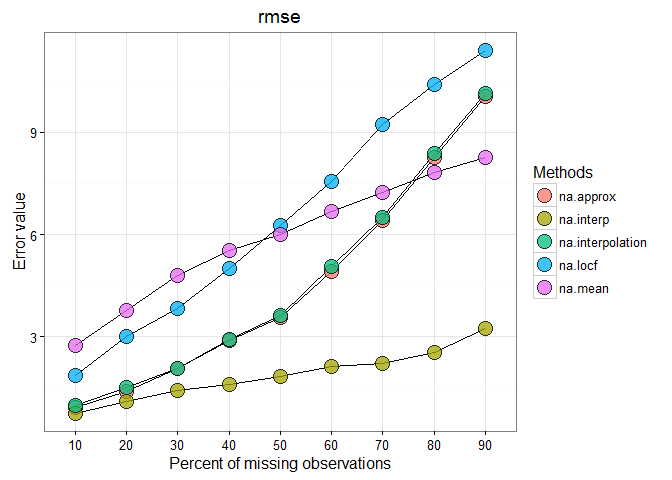
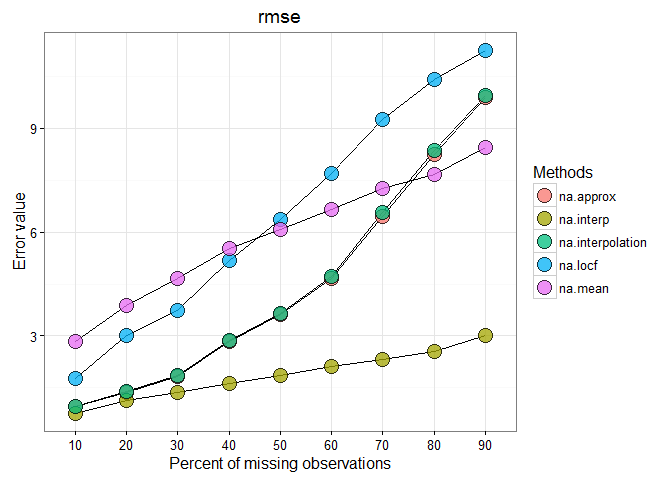
adding CI, running CRAN checks

diff --git a/README.html b/README.html
@@ -125,6 +125,9 @@ $(document).ready(function () {
 <h2>imputeTestbench</h2>
 <div id="neeraj-bokde-neerajdhanrajgmail.com-marcus-w.-beck-beck.marcusepa.gov" class="section level4">
 <h4><em>Neeraj Bokde, <a href="mailto:neerajdhanraj@gmail.com">neerajdhanraj@gmail.com</a>, Marcus W. Beck, <a href="mailto:beck.marcus@epa.gov">beck.marcus@epa.gov</a></em></h4>
+<p><a href="https://travis-ci.org/fawda123/imputeTestbench"><img src="https://travis-ci.org/fawda123/imputeTestbench.svg?branch=master" alt="Travis-CI Build Status" /></a></p>
+<p><a href="https://ci.appveyor.com/project/fawda123/imputeTestbench"><img src="https://ci.appveyor.com/api/projects/status/github/fawda123/imputeTestbench?branch=master&amp;svg=true" alt="AppVeyor Build Status" /></a></p>
+<p><a href="http://cran.rstudio.com/package=imputeTestbench"><img src="http://cranlogs.r-pkg.org/badges/grand-total/imputeTestbench" alt="Downloads from the RStudio CRAN mirror" /></a></p>
 <p>This is the development repository for the imputeTestbench package. This package provides a testbench for comparing imputation methods for missing data in univariate time series.</p>
 <p>The development version of this package can be installed from Github:</p>
 <pre class="r"><code>install.packages(&#39;devtools&#39;)
@@ -146,24 +149,24 @@ a</code></pre>
 ## [1] 10 20 30 40 50 60 70 80 90
 ## 
 ## $na.approx
-## [1]  0.9314818  1.3907689  2.0607283  2.8861244  3.5637052  4.9158789
-## [7]  6.4131929  8.2528277 10.0580649
+## [1] 0.9487195 1.3551689 1.8287319 2.8499620 3.6178854 4.6592562 6.4600441
+## [8] 8.2361118 9.8981246
 ## 
 ## $na.interp
-## [1] 0.756944 1.099818 1.412798 1.586325 1.835997 2.119822 2.214915 2.533648
-## [9] 3.251729
+## [1] 0.7679054 1.1328513 1.3713050 1.6197456 1.8502538 2.1180169 2.3079583
+## [8] 2.5567402 3.0259601
 ## 
 ## $na.interpolation
-## [1]  0.9771439  1.5100036  2.0772976  2.9099799  3.6141572  5.0736151
-## [7]  6.5072629  8.3734161 10.1321833
+## [1] 0.9701737 1.4012817 1.8520263 2.8657296 3.6599247 4.7046867 6.5583047
+## [8] 8.3618126 9.9443988
 ## 
 ## $na.locf
-## [1]  1.865308  3.006465  3.819017  5.002598  6.276696  7.543415  9.230569
-## [8] 10.389976 11.396348
+## [1]  1.768138  3.008227  3.733738  5.168307  6.354235  7.696832  9.243164
+## [8] 10.419655 11.245193
 ## 
 ## $na.mean
-## [1] 2.738661 3.783800 4.784753 5.517070 5.996845 6.664098 7.240930 7.822131
-## [9] 8.265659</code></pre>
+## [1] 2.838550 3.868051 4.646613 5.514563 6.083541 6.664628 7.251263 7.673111
+## [9] 8.443754</code></pre>
 <pre class="r"><code>plot_errors(a, plotType = &#39;line&#39;)</code></pre>
 <p><img src="README_files/figure-html/unnamed-chunk-3-1.png" /><!-- --></p>
 </div>

diff --git a/README.md b/README.md
@@ -3,6 +3,12 @@
 
 #### *Neeraj Bokde, neerajdhanraj@gmail.com, Marcus W. Beck, beck.marcus@epa.gov*
 
+[![Travis-CI Build Status](https://travis-ci.org/fawda123/imputeTestbench.svg?branch=master)](https://travis-ci.org/fawda123/imputeTestbench)
+
+[![AppVeyor Build Status](https://ci.appveyor.com/api/projects/status/github/fawda123/imputeTestbench?branch=master&svg=true)](https://ci.appveyor.com/project/fawda123/imputeTestbench)
+
+[![Downloads from the RStudio CRAN mirror](http://cranlogs.r-pkg.org/badges/grand-total/imputeTestbench)](http://cran.rstudio.com/package=imputeTestbench)
+
 
 
 This is the development repository for the imputeTestbench package.  This package provides a testbench for comparing imputation methods for missing data in univariate time series. 
@@ -42,24 +48,24 @@ a
 ## [1] 10 20 30 40 50 60 70 80 90
 ## 
 ## $na.approx
-## [1]  0.9314818  1.3907689  2.0607283  2.8861244  3.5637052  4.9158789
-## [7]  6.4131929  8.2528277 10.0580649
+## [1] 0.9487195 1.3551689 1.8287319 2.8499620 3.6178854 4.6592562 6.4600441
+## [8] 8.2361118 9.8981246
 ## 
 ## $na.interp
-## [1] 0.756944 1.099818 1.412798 1.586325 1.835997 2.119822 2.214915 2.533648
-## [9] 3.251729
+## [1] 0.7679054 1.1328513 1.3713050 1.6197456 1.8502538 2.1180169 2.3079583
+## [8] 2.5567402 3.0259601
 ## 
 ## $na.interpolation
-## [1]  0.9771439  1.5100036  2.0772976  2.9099799  3.6141572  5.0736151
-## [7]  6.5072629  8.3734161 10.1321833
+## [1] 0.9701737 1.4012817 1.8520263 2.8657296 3.6599247 4.7046867 6.5583047
+## [8] 8.3618126 9.9443988
 ## 
 ## $na.locf
-## [1]  1.865308  3.006465  3.819017  5.002598  6.276696  7.543415  9.230569
-## [8] 10.389976 11.396348
+## [1]  1.768138  3.008227  3.733738  5.168307  6.354235  7.696832  9.243164
+## [8] 10.419655 11.245193
 ## 
 ## $na.mean
-## [1] 2.738661 3.783800 4.784753 5.517070 5.996845 6.664098 7.240930 7.822131
-## [9] 8.265659
+## [1] 2.838550 3.868051 4.646613 5.514563 6.083541 6.664628 7.251263 7.673111
+## [9] 8.443754
 ```
 
 ```r
